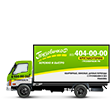
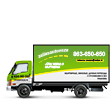
nauja versija

Changed region(s): [[0.2946, 0.45, 0.9643, 0.75]]

diff --git a/index.html b/index.html
@@ -9,56 +9,47 @@
 	
 	<script src="./js/jquery.min.js"></script>
 	<script src="./js/jquery-ui.min.js"></script>
-	<script src="./js/jquery.ui.datepicker-ru.js"></script>
-	<script src="./js/jquery.maskedinput-1.3.js"></script>
 	<script src="./js/main.js"></script>
 	
 	<link rel="stylesheet" href="./css/jquery-ui.css" />	
 	<link rel="stylesheet" href="./css/main.css" />
 	<link rel="stylesheet" href="./css/header.css" />
-	<link rel="stylesheet" href="./css/footer.css" />
-</head>
 
+</head>
 	<body loc="spb" class="index">
 		<div class="header anim new">
 
-		<link rel="stylesheet" type="text/css" href="./view/spb/include/sel_city/main.css"/>
-		<script type="text/javascript" src="./view/spb/include/sel_city/main.js"></script>
-		<div id="sel_city">
-			<i style="font-size: 12px; font-weight: bold;">Ваш город Санкт-Петербург. <a href="/msk/" onclick="sel_city_toggle(event); return false;" style="color: #000; text-decoration: underline;">Выбрать другой город.</a></i>
-		</div>
+			<link rel="stylesheet" type="text/css" href="./view/spb/include/sel_city/main.css"/>
+			<script type="text/javascript" src="./view/spb/include/sel_city/main.js"></script>
 
-		<link rel="stylesheet" type="text/css" href="./view/spb/include/cars/main.css" />
-		<script type="text/javascript" src="./view/spb/include/cars/main.js"></script>
-		<script> $(setTimeout(car.start, 300)); </script><div id="cars_anim">
-			<div class="cars">
-						<img src="./view/spb/include/cars/images/cars/car_small_2_1.png" alt="" style="left: -500px"/>
-						<img src="./view/spb/include/cars/images/cars/car_small_2_2.png" alt="" style="left: -500px"/>
-						<img src="./view/spb/include/cars/images/cars/car_small_2_3.png" alt="" style="left: -500px"/>
-						<img src="./view/spb/include/cars/images/cars/car_small_2_4.png" alt="" style="left: -500px"/>
-					</div>
-			<div class="wind"></div>
-			<div class="phone">
-				<img src="./view/spb/include/cars/images/phone.png" alt="" />
-				<img src="./view/spb/include/cars/images/phone-num.png" alt="" />
-			</div>	
-			<div class="car">
-				<img src="./view/spb/include/cars/images/cars/car_big_1_1_body.png" alt="" />
-				<img src="./view/spb/include/cars/images/cars/car_big_1_1_wheels.gif" alt="" />
+			<link rel="stylesheet" type="text/css" href="./view/spb/include/cars/main.css" />
+			<script type="text/javascript" src="./view/spb/include/cars/main.js"></script>
+			<script> $(setTimeout(car.start, 300)); </script>
+			<div id="cars_anim">
+				<div class="cars">
+					<img src="./view/spb/include/cars/images/cars/car_small_2_1.png" alt="" style="left: -500px"/>
+					<img src="./view/spb/include/cars/images/cars/car_small_2_2.png" alt="" style="left: -500px"/>
+					<img src="./view/spb/include/cars/images/cars/car_small_2_3.png" alt="" style="left: -500px"/>
+					<img src="./view/spb/include/cars/images/cars/car_small_2_4.png" alt="" style="left: -500px"/>
+				</div>
+				<div class="wind"></div>
+				<div class="phone">
+					<img src="./view/spb/include/cars/images/phone.png" alt="" />
+					<img src="./view/spb/include/cars/images/phone-num.png" alt="" />
+				</div>	
+				<div class="car">
+					<img src="./view/spb/include/cars/images/cars/car_big_1_1_body.png" alt="" />
+					<img src="./view/spb/include/cars/images/cars/car_big_1_1_wheels.gif" alt="" />
+				</div>	
 			</div>
-		</div>	
-
 			<div class="right">
 				<div class="logo"><a href="../."><img src="./images/header/logo.png" alt="ГрузовичкоФ" /></a></div>
-				<div class="taxibubble"></div>
+				<!-- <div class="taxibubble"></div> -->
 				<div class="trans">
-					<div class="title"><a href="">Транспорт есть<br/>всегда!</a></div>
-					<div><a href="../contacts.php">СПБ, ул. Ивана Черных, 29, 2-й этаж.<br/>
-					тел. +7 (812) 404-00-00 многоканальный,<br/>
-					тел. 8 800 100-333-0 бесплатный вызов,<br/>
-					факс +7 (812) 702-333-0</a></div>
+					<div class="title"><h1>Mes pasiruošę<br/>visada jums padėti!</h1></div>
 				</div>
-			</div>	
+			</div>
 		</div>
+		<div id="apacia"></div>
 	</body>
 </html>

diff --git a/css/main.css b/css/main.css
@@ -1,37 +1,8 @@
-@font-face {
-	font-family: 'HC';
-	src: url('../fonts/helioscondc.eot');
-	src:
-		url('../fonts/helioscondc.eot?#iefix') format('embedded-opentype'),
-		url('../fonts/helioscondc.woff') format('woff'),
-		url('../fonts/helioscondc.ttf') format('truetype'),
-		url('../fonts/helioscondc.svg#helioscondc') format('svg');
-	font-weight: normal;
-	font-style: normal;
-}
-@font-face {
-	font-family: 'BG';
-	src: url('../fonts/bg-r.eot');
-	src:
-		url('../fonts/bg-r.eot?#iefix') format('embedded-opentype'),
-		url('../fonts/bg-r.woff') format('woff'),
-		url('../fonts/bg-r.ttf') format('truetype'),
-		url('../fonts/bg-r.svg#barnaulgrotesk') format('svg');
-	font-weight: normal;
-	font-style: normal;
-}
-@font-face {
-	font-family: 'BG';
-	src: url('../fonts/bg-b.eot');
-	src:
-		url('../fonts/bg-b.eot?#iefix') format('embedded-opentype'),
-		url('../fonts/bg-b.woff') format('woff'),
-		url('../fonts/bg-b.ttf') format('truetype'),
-		url('../fonts/bg-b.svg#barnaulgrotesk') format('svg');
-	font-weight: bold;
-	font-style: normal;
-}
 
+#apacia {
+	min-height: 300px;
+	background: url('../view/spb/include/cars/images/footer.png');
+}
 
 body, html {
 	margin: 0;
@@ -45,111 +16,6 @@ body {
 	font-size: 14px;
 	min-width: 1430px;
 	position: relative;
-}
-body>.page {
-	padding: 20px 450px 0px 80px;
-	font-size: 14px;
-	position: relative;
-	min-height: 200px;
-}
-
-.page>.actions {
-	position: absolute;	
-	right: 80px;
-	top: 0;
-}
-.page>.buttons {
-	position: absolute;
-	top: 10px;
-	right: 400px;
-}
-
-.page>.bread {
-	margin-top: 15px;
-}
-.page>.bread,
-.page>.bread a {
-	color: #F63;
-	font-weight: bold;
-}
-.page>.bread a:hover {
-	color: #d35024;
-}
-
-.page>.tabs {
-	position: absolute;
-	top: -30px;
-	left: 70px;
-	height: 30px;
-	overflow: hidden;
-}
-.page>.tabs>.item {
-	cursor: pointer;
-	font-weight: bold;
-	background: #F6E826;
-	margin-right: 3px;
-	border-radius: 5px 5px 0px 0px;
-	padding: 5px 20px;
-	line-height: 35px;
-	text-decoration: none;
-	color: #555;
-}
-.page>.tabs>.item:hover {	
-	background: #FFF789;
-	color: #000;
-}
-.page>.tabs>.item.active {
-	padding: 10px 20px;
-	line-height: 35px;
-	color: #000;
-	background: #fff;
-}
-
-.page>.links {
-	margin: 15px 0 30px 0;
-}
-.page>.links a {
-	float: left;
-	display: block;
-	margin-right: 30px;
-	color: #555;
-	font-size: 12px;
-	cursor: pointer;
-	text-decoration: none;
-	min-width: 100px;
-	max-width: 200px;
-}
-.page>.links a:hover {
-	color: #000;
-	text-decoration: underline;	
-}
-.page>.menu {
-	position: absolute;
-	right: 80px;
-	width: 280px;
-}
-.page>.menu>div {
-	margin-bottom: 10px;	
-}
-.page>.menu .h2 {
-	margin: 0 0 5px 0;	
-}
-.page>.menu a.item {
-	padding: 0 0 4px 20px;
-	color: #000;
-}
-.page>.menu a {
-	display: block;
-	text-decoration: none;	
-}
-.page>.menu a:hover {
-	text-decoration: underline;
-}
-.page>.menu a>span {
-	display: block;
-	font-size: 12px;
-	color: #555;
-	text-decoration: none;
 }
 
 h1, .h1, h1>a, .h1>a {

diff --git a/css/header.css b/css/header.css
@@ -103,8 +103,8 @@ body>.header>.right {
 }
 body>.header>.right .logo {
 	position: absolute;
-	top: 50px;
-	left: 180px;
+	top: 45px;
+	left: 100px;
 }
 body>.header>.right .gerb {
 	position: absolute;
@@ -221,7 +221,7 @@ body>.header>.right .buts .comments a {
 body>.header>.right .trans {
 	position: absolute;
 	top: 240px;
-	left: 200px;
+	left: 100px;
 	width: 300px;	
 }
 body>.header>.right .trans a {
@@ -235,10 +235,10 @@ body>.header>.right .trans a:hover {
 body>.header>.right .trans>.title {
 	margin-bottom: 5px;
 }
-body>.header>.right .trans>.title a {
+body>.header>.right .trans>.title h1 {
 	font-size: 32px;
 	color: #EAFDE5;
-	line-height: 30px;
+	line-height: 35px;
 }
 body>.header>.right .trans>.title a:hover {
 	color: #fff;
